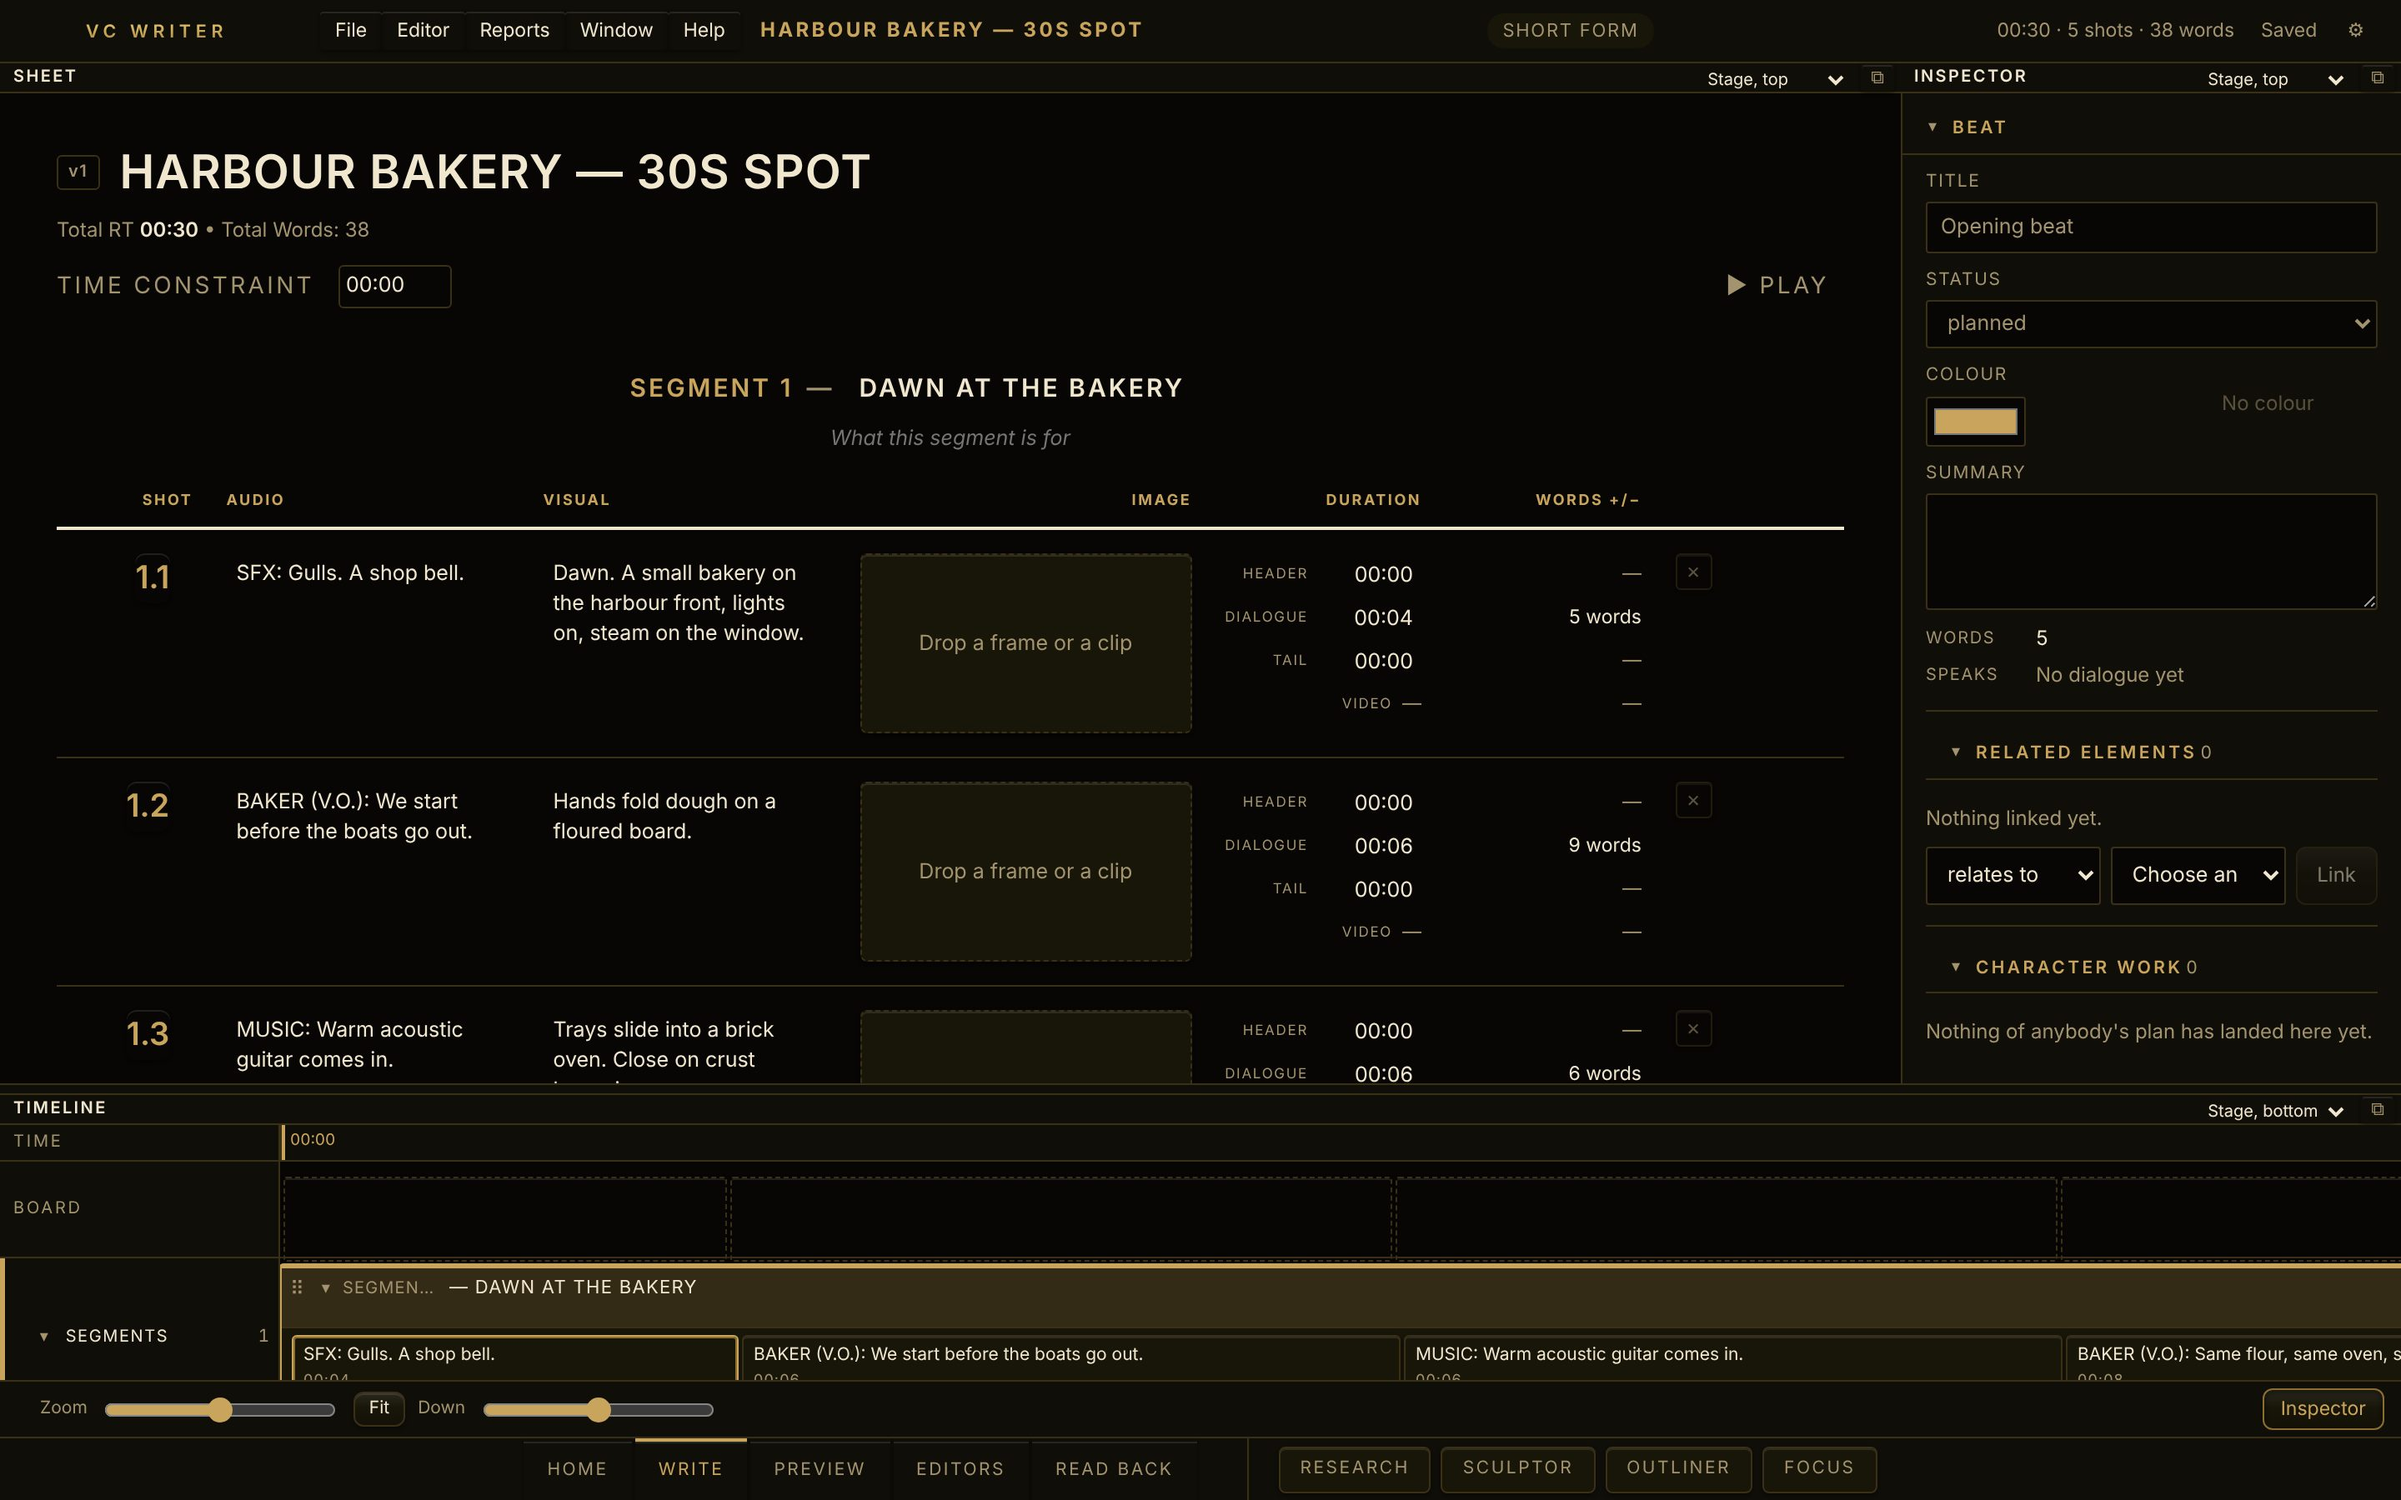
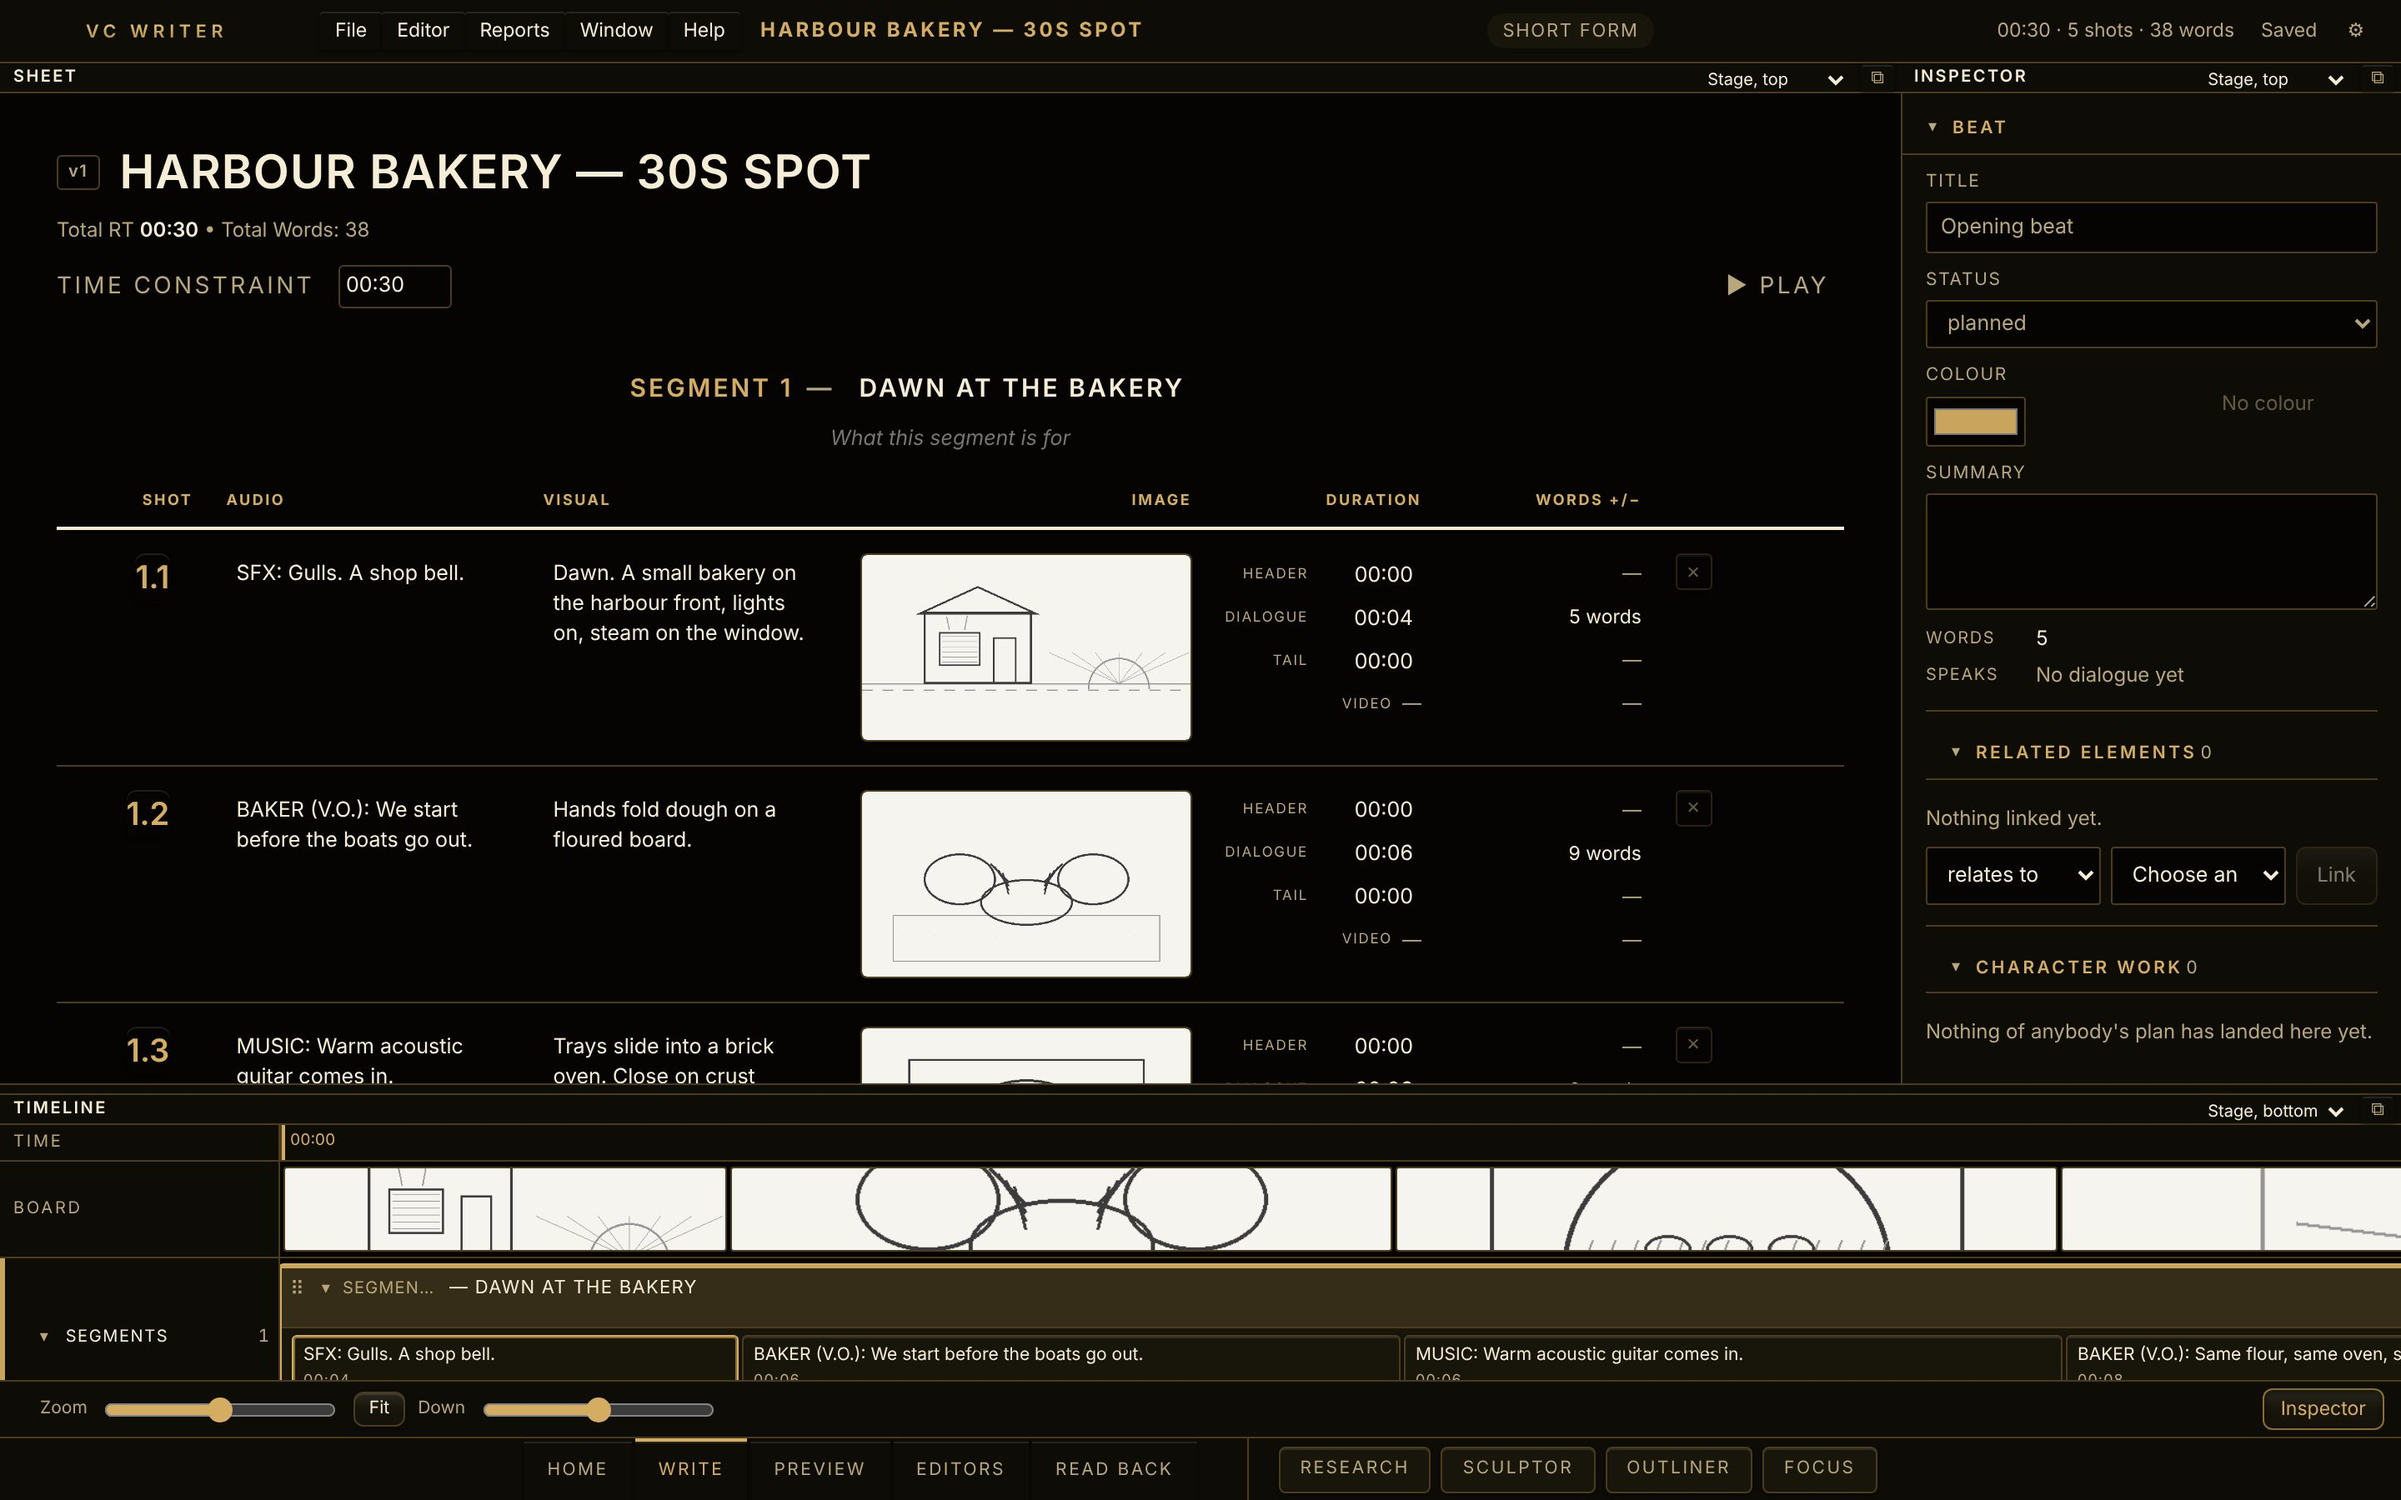
Website: the short form walkthrough, in four steps
Plan it from the brief, write what is heard and what is seen, a frame for
every shot, timed to the second. The Harbour Bakery demo gains a pencil
storyboard frame on every row, a 30-second limit, a client brief and a plan;
two new shots and two retaken. On the short form page and in the workflow
band. Records that the Daily editor flags every line of a short-form sheet
as an uncued speech. Addendum 35 §14.6.

Claude-Session: https://claude.ai/code/session_01HufyX56kuynopRgv2CJ1Ch

diff --git a/apps/web/src/lib/walkthroughs.ts b/apps/web/src/lib/walkthroughs.ts
@@ -287,6 +287,37 @@ export const WALKTHROUGHS: ReadonlyArray<Walkthrough> = [
       },
     ],
   },
+  {
+    slug: 'short-form',
+    label: 'See how a commercial comes together',
+    title: 'A commercial in four easy steps',
+    steps: [
+      {
+        title: 'Plan it from the brief',
+        body: 'Keep the client’s brief and the must-haves beside you, and plan the spot in a few lines: what happens, beat by beat.',
+        shot: 'help/short-form-outliner',
+        alt: 'The Outliner with the client brief on the shelf and the spot planned in rows',
+      },
+      {
+        title: 'Write what is heard and what is seen',
+        body: 'The two-column sheet the business uses: audio on one side, picture on the other, a row for every shot, and a frame or clip beside each.',
+        shot: 'modules/short-form',
+        alt: 'The AV sheet: audio and visual side by side, a storyboard frame and a duration on every row',
+      },
+      {
+        title: 'A frame for every shot',
+        body: 'Turn the same rows into a storyboard: each frame with its words and its action, timed. The board and the script are one document.',
+        shot: 'help/short-form-board',
+        alt: 'The storyboard: five frames, each with its dialogue, action and time',
+      },
+      {
+        title: 'Timed to the second',
+        body: 'Every row carries its length and the spot adds itself up against your limit, :15, :30 or :60, so you know before the client does. Print the sheet or the board, or send either as a PDF.',
+        shot: 'help/short-form-preview',
+        alt: 'The printed AV sheet with its total running time against a thirty-second limit',
+      },
+    ],
+  },
 ];
 
 export const walkthroughBySlug = (slug: string): Walkthrough | undefined => WALKTHROUGHS.find((one) => one.slug === slug);

diff --git a/apps/web/src/app/(site)/workflow/page.tsx b/apps/web/src/app/(site)/workflow/page.tsx
@@ -124,7 +124,7 @@ export default function WorkflowPage() {
         <div>
           <h2>See it step by step</h2>
           <p>
-            Plan it, write it, and watch it become a screenplay, a series, a play, a novel, a collection or a nonfiction book. Six short steps each, no jargon.
+            Plan it, write it, and watch it become a screenplay, a series, a play, a novel, a collection, a nonfiction book or a commercial. A few short steps each, no jargon.
           </p>
         </div>
         <span className="band-buttons">
@@ -134,6 +134,7 @@ export default function WorkflowPage() {
           <WalkthroughButton walkthrough={walkthroughBySlug('series')!} className="button secondary" />
           <WalkthroughButton walkthrough={walkthroughBySlug('stage-play')!} className="button secondary" />
           <WalkthroughButton walkthrough={walkthroughBySlug('instructional')!} className="button secondary" />
+          <WalkthroughButton walkthrough={walkthroughBySlug('short-form')!} className="button secondary" />
         </span>
       </section>
 

diff --git a/docs/spec/addendum-35-which-module.md b/docs/spec/addendum-35-which-module.md
@@ -584,3 +584,35 @@ Without these, the library read *References 0* and the end-of-section panel
 
 **Where it appears:** on `/write/instructional`, and as a sixth button in the
 `/workflow` band.
+
+### 14.6 Short form
+
+**See how a commercial comes together**, in **four** steps, since a
+commercial is a short job and the box says so:
+
+1. **Plan it from the brief**: the Outliner, with the client brief and
+   mandatories on its shelf (`short-form-outliner`, new).
+2. **Write what is heard and what is seen**: the AV sheet with a frame on
+   every row (`modules/short-form`, retaken).
+3. **A frame for every shot**: the Board view (`short-form-board`, new).
+4. **Timed to the second**: the printed sheet, its total against a 30-second
+   limit (`short-form-preview`, retaken).
+
+**The Harbour Bakery demo was filled out:**
+
+- a storyboard frame on every row: five rough pencil thumbnails drawn for the
+  demo in `classics/frames/`
+- a 30-second limit (`setMaxSeconds`)
+- a client brief and mandatories in Research
+- the spot planned in the Outliner
+
+**Found, not fixed: the Daily editor misreads short-form sheets.** It flags
+every audio line of the sheet as *a speech with no character cue above it —
+nobody is saying this*, five errors on a correct sheet. A sheet's audio
+column is not dialogue awaiting a cue, so the rule should not apply to
+`short_form`. For that reason no editors step is in this walkthrough. The
+Research shot was dropped too: the brief landed in the Characters folder,
+which read wrongly.
+
+**Where it appears:** on `/write/short-form`, and as a seventh button in the
+`/workflow` band.
